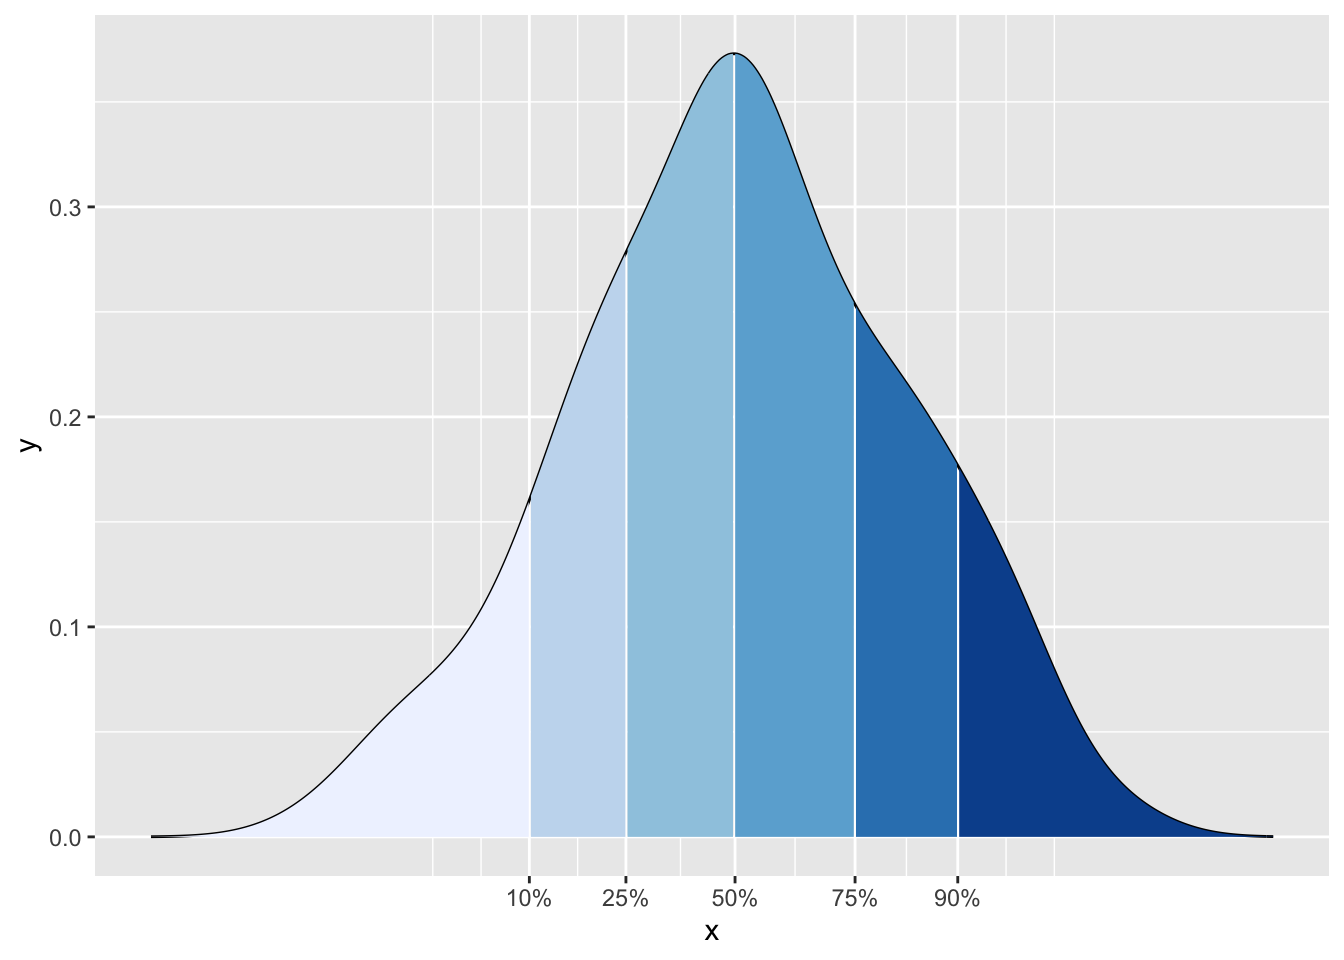
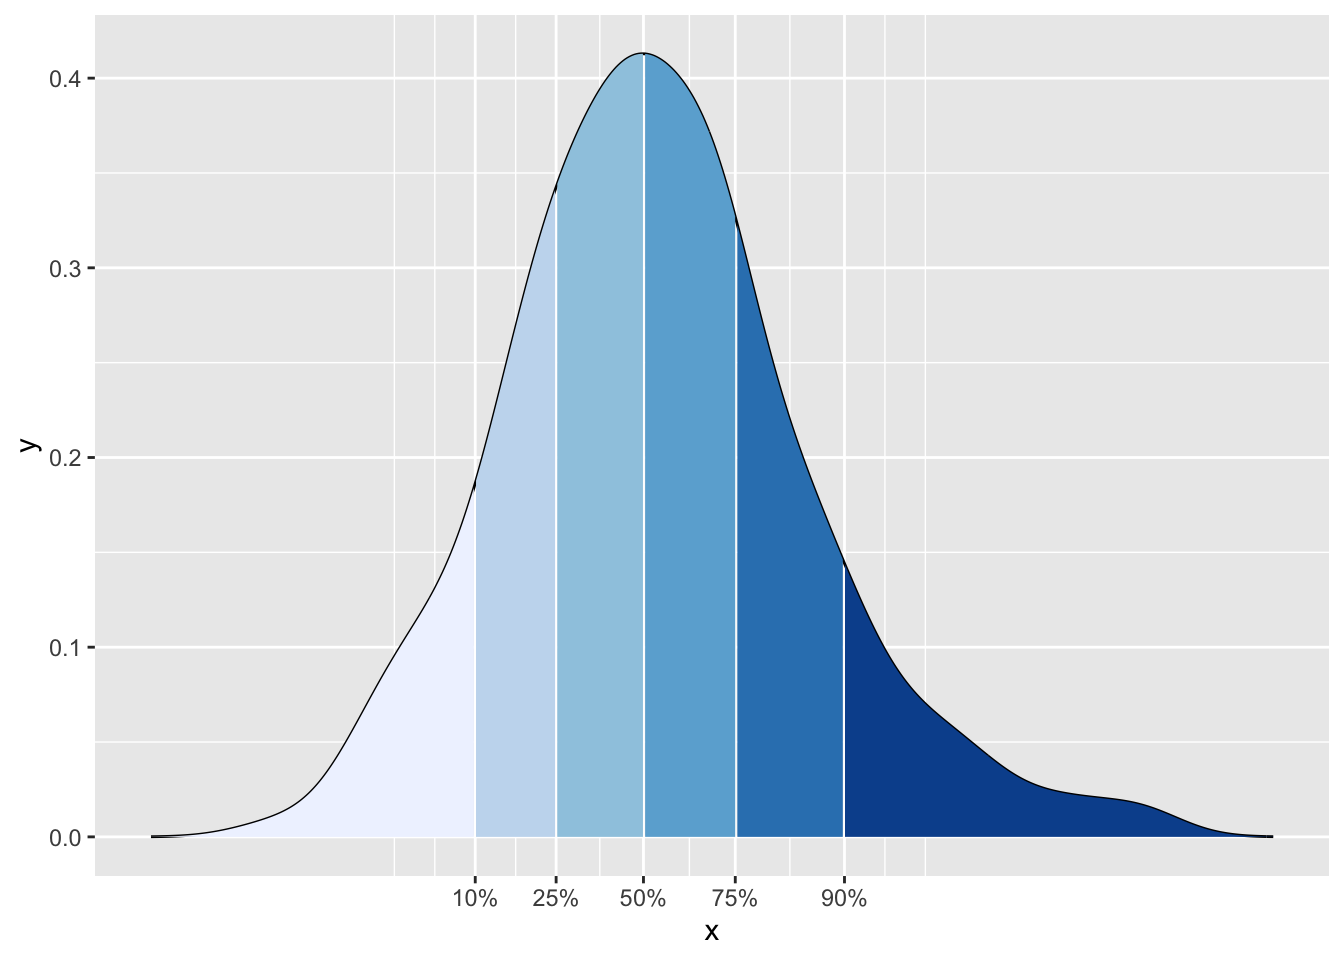
2023-03-06-violin

diff --git a/G8_geom_boxplot_geom_violin.html b/G8_geom_boxplot_geom_violin.html
@@ -629,12 +629,12 @@ de puntos de datos</p>
 <span id="cb6-4"><a href="#cb6-4" aria-hidden="true" tabindex="-1"></a><span class="fu">library</span>(gt)</span>
 <span id="cb6-5"><a href="#cb6-5" aria-hidden="true" tabindex="-1"></a>dipodium<span class="ot">=</span><span class="fu">clean_names</span>(dipodium)</span>
 <span id="cb6-6"><a href="#cb6-6" aria-hidden="true" tabindex="-1"></a><span class="fu">gt</span>(<span class="fu">head</span>(dipodium))</span></code></pre></div>
-<div id="cpytqasldf" style="padding-left:0px;padding-right:0px;padding-top:10px;padding-bottom:10px;overflow-x:auto;overflow-y:auto;width:auto;height:auto;">
+<div id="leahzobzrp" style="padding-left:0px;padding-right:0px;padding-top:10px;padding-bottom:10px;overflow-x:auto;overflow-y:auto;width:auto;height:auto;">
 <style>html {
   font-family: -apple-system, BlinkMacSystemFont, 'Segoe UI', Roboto, Oxygen, Ubuntu, Cantarell, 'Helvetica Neue', 'Fira Sans', 'Droid Sans', Arial, sans-serif;
 }
 
-#cpytqasldf .gt_table {
+#leahzobzrp .gt_table {
   display: table;
   border-collapse: collapse;
   margin-left: auto;
@@ -659,7 +659,7 @@ de puntos de datos</p>
   border-left-color: #D3D3D3;
 }
 
-#cpytqasldf .gt_heading {
+#leahzobzrp .gt_heading {
   background-color: #FFFFFF;
   text-align: center;
   border-bottom-color: #FFFFFF;
@@ -671,12 +671,12 @@ de puntos de datos</p>
   border-right-color: #D3D3D3;
 }
 
-#cpytqasldf .gt_caption {
+#leahzobzrp .gt_caption {
   padding-top: 4px;
   padding-bottom: 4px;
 }
 
-#cpytqasldf .gt_title {
+#leahzobzrp .gt_title {
   color: #333333;
   font-size: 125%;
   font-weight: initial;
@@ -688,7 +688,7 @@ de puntos de datos</p>
   border-bottom-width: 0;
 }
 
-#cpytqasldf .gt_subtitle {
+#leahzobzrp .gt_subtitle {
   color: #333333;
   font-size: 85%;
   font-weight: initial;
@@ -700,13 +700,13 @@ de puntos de datos</p>
   border-top-width: 0;
 }
 
-#cpytqasldf .gt_bottom_border {
+#leahzobzrp .gt_bottom_border {
   border-bottom-style: solid;
   border-bottom-width: 2px;
   border-bottom-color: #D3D3D3;
 }
 
-#cpytqasldf .gt_col_headings {
+#leahzobzrp .gt_col_headings {
   border-top-style: solid;
   border-top-width: 2px;
   border-top-color: #D3D3D3;
@@ -721,7 +721,7 @@ de puntos de datos</p>
   border-right-color: #D3D3D3;
 }
 
-#cpytqasldf .gt_col_heading {
+#leahzobzrp .gt_col_heading {
   color: #333333;
   background-color: #FFFFFF;
   font-size: 100%;
@@ -741,7 +741,7 @@ de puntos de datos</p>
   overflow-x: hidden;
 }
 
-#cpytqasldf .gt_column_spanner_outer {
+#leahzobzrp .gt_column_spanner_outer {
   color: #333333;
   background-color: #FFFFFF;
   font-size: 100%;
@@ -753,15 +753,15 @@ de puntos de datos</p>
   padding-right: 4px;
 }
 
-#cpytqasldf .gt_column_spanner_outer:first-child {
+#leahzobzrp .gt_column_spanner_outer:first-child {
   padding-left: 0;
 }
 
-#cpytqasldf .gt_column_spanner_outer:last-child {
+#leahzobzrp .gt_column_spanner_outer:last-child {
   padding-right: 0;
 }
 
-#cpytqasldf .gt_column_spanner {
+#leahzobzrp .gt_column_spanner {
   border-bottom-style: solid;
   border-bottom-width: 2px;
   border-bottom-color: #D3D3D3;
@@ -773,7 +773,7 @@ de puntos de datos</p>
   width: 100%;
 }
 
-#cpytqasldf .gt_group_heading {
+#leahzobzrp .gt_group_heading {
   padding-top: 8px;
   padding-bottom: 8px;
   padding-left: 5px;
@@ -799,7 +799,7 @@ de puntos de datos</p>
   text-align: left;
 }
 
-#cpytqasldf .gt_empty_group_heading {
+#leahzobzrp .gt_empty_group_heading {
   padding: 0.5px;
   color: #333333;
   background-color: #FFFFFF;
@@ -814,15 +814,15 @@ de puntos de datos</p>
   vertical-align: middle;
 }
 
-#cpytqasldf .gt_from_md > :first-child {
+#leahzobzrp .gt_from_md > :first-child {
   margin-top: 0;
 }
 
-#cpytqasldf .gt_from_md > :last-child {
+#leahzobzrp .gt_from_md > :last-child {
   margin-bottom: 0;
 }
 
-#cpytqasldf .gt_row {
+#leahzobzrp .gt_row {
   padding-top: 8px;
   padding-bottom: 8px;
   padding-left: 5px;
@@ -841,7 +841,7 @@ de puntos de datos</p>
   overflow-x: hidden;
 }
 
-#cpytqasldf .gt_stub {
+#leahzobzrp .gt_stub {
   color: #333333;
   background-color: #FFFFFF;
   font-size: 100%;
@@ -854,7 +854,7 @@ de puntos de datos</p>
   padding-right: 5px;
 }
 
-#cpytqasldf .gt_stub_row_group {
+#leahzobzrp .gt_stub_row_group {
   color: #333333;
   background-color: #FFFFFF;
   font-size: 100%;
@@ -868,11 +868,11 @@ de puntos de datos</p>
   vertical-align: top;
 }
 
-#cpytqasldf .gt_row_group_first td {
+#leahzobzrp .gt_row_group_first td {
   border-top-width: 2px;
 }
 
-#cpytqasldf .gt_summary_row {
+#leahzobzrp .gt_summary_row {
   color: #333333;
   background-color: #FFFFFF;
   text-transform: inherit;
@@ -882,16 +882,16 @@ de puntos de datos</p>
   padding-right: 5px;
 }
 
-#cpytqasldf .gt_first_summary_row {
+#leahzobzrp .gt_first_summary_row {
   border-top-style: solid;
   border-top-color: #D3D3D3;
 }
 
-#cpytqasldf .gt_first_summary_row.thick {
+#leahzobzrp .gt_first_summary_row.thick {
   border-top-width: 2px;
 }
 
-#cpytqasldf .gt_last_summary_row {
+#leahzobzrp .gt_last_summary_row {
   padding-top: 8px;
   padding-bottom: 8px;
   padding-left: 5px;
@@ -901,7 +901,7 @@ de puntos de datos</p>
   border-bottom-color: #D3D3D3;
 }
 
-#cpytqasldf .gt_grand_summary_row {
+#leahzobzrp .gt_grand_summary_row {
   color: #333333;
   background-color: #FFFFFF;
   text-transform: inherit;
@@ -911,7 +911,7 @@ de puntos de datos</p>
   padding-right: 5px;
 }
 
-#cpytqasldf .gt_first_grand_summary_row {
+#leahzobzrp .gt_first_grand_summary_row {
   padding-top: 8px;
   padding-bottom: 8px;
   padding-left: 5px;
@@ -921,11 +921,11 @@ de puntos de datos</p>
   border-top-color: #D3D3D3;
 }
 
-#cpytqasldf .gt_striped {
+#leahzobzrp .gt_striped {
   background-color: rgba(128, 128, 128, 0.05);
 }
 
-#cpytqasldf .gt_table_body {
+#leahzobzrp .gt_table_body {
   border-top-style: solid;
   border-top-width: 2px;
   border-top-color: #D3D3D3;
@@ -934,7 +934,7 @@ de puntos de datos</p>
   border-bottom-color: #D3D3D3;
 }
 
-#cpytqasldf .gt_footnotes {
+#leahzobzrp .gt_footnotes {
   color: #333333;
   background-color: #FFFFFF;
   border-bottom-style: none;
@@ -948,7 +948,7 @@ de puntos de datos</p>
   border-right-color: #D3D3D3;
 }
 
-#cpytqasldf .gt_footnote {
+#leahzobzrp .gt_footnote {
   margin: 0px;
   font-size: 90%;
   padding-left: 4px;
@@ -957,7 +957,7 @@ de puntos de datos</p>
   padding-right: 5px;
 }
 
-#cpytqasldf .gt_sourcenotes {
+#leahzobzrp .gt_sourcenotes {
   color: #333333;
   background-color: #FFFFFF;
   border-bottom-style: none;
@@ -971,7 +971,7 @@ de puntos de datos</p>
   border-right-color: #D3D3D3;
 }
 
-#cpytqasldf .gt_sourcenote {
+#leahzobzrp .gt_sourcenote {
   font-size: 90%;
   padding-top: 4px;
   padding-bottom: 4px;
@@ -979,64 +979,64 @@ de puntos de datos</p>
   padding-right: 5px;
 }
 
-#cpytqasldf .gt_left {
+#leahzobzrp .gt_left {
   text-align: left;
 }
 
-#cpytqasldf .gt_center {
+#leahzobzrp .gt_center {
   text-align: center;
 }
 
-#cpytqasldf .gt_right {
+#leahzobzrp .gt_right {
   text-align: right;
   font-variant-numeric: tabular-nums;
 }
 
-#cpytqasldf .gt_font_normal {
+#leahzobzrp .gt_font_normal {
   font-weight: normal;
 }
 
-#cpytqasldf .gt_font_bold {
+#leahzobzrp .gt_font_bold {
   font-weight: bold;
 }
 
-#cpytqasldf .gt_font_italic {
+#leahzobzrp .gt_font_italic {
   font-style: italic;
 }
 
-#cpytqasldf .gt_super {
+#leahzobzrp .gt_super {
   font-size: 65%;
 }
 
-#cpytqasldf .gt_footnote_marks {
+#leahzobzrp .gt_footnote_marks {
   font-style: italic;
   font-weight: normal;
   font-size: 75%;
   vertical-align: 0.4em;
 }
 
-#cpytqasldf .gt_asterisk {
+#leahzobzrp .gt_asterisk {
   font-size: 100%;
   vertical-align: 0;
 }
 
-#cpytqasldf .gt_indent_1 {
+#leahzobzrp .gt_indent_1 {
   text-indent: 5px;
 }
 
-#cpytqasldf .gt_indent_2 {
+#leahzobzrp .gt_indent_2 {
   text-indent: 10px;
 }
 
-#cpytqasldf .gt_indent_3 {
+#leahzobzrp .gt_indent_3 {
   text-indent: 15px;
 }
 
-#cpytqasldf .gt_indent_4 {
+#leahzobzrp .gt_indent_4 {
   text-indent: 20px;
 }
 
-#cpytqasldf .gt_indent_5 {
+#leahzobzrp .gt_indent_5 {
   text-indent: 25px;
 }
 </style>
@@ -1346,12 +1346,12 @@ a los violines y se le cambia la intensidad al color con
 <span id="cb17-3"><a href="#cb17-3" aria-hidden="true" tabindex="-1"></a>dfnorm<span class="ot">=</span><span class="fu">data.frame</span>(normal_data)</span>
 <span id="cb17-4"><a href="#cb17-4" aria-hidden="true" tabindex="-1"></a><span class="fu">head</span>(dfnorm)</span></code></pre></div>
 <pre><code>##   normal_data
-## 1   -3.101521
-## 2    5.151908
-## 3   -3.311005
-## 4    1.503180
-## 5    4.640319
-## 6   -2.327034</code></pre>
+## 1  -2.8586006
+## 2   7.6773546
+## 3  -2.8065801
+## 4  -4.3307417
+## 5  -0.6105244
+## 6  -2.8603909</code></pre>
 <div class="sourceCode" id="cb19"><pre class="sourceCode r"><code class="sourceCode r"><span id="cb19-1"><a href="#cb19-1" aria-hidden="true" tabindex="-1"></a><span class="fu">library</span>(ggplot2)</span>
 <span id="cb19-2"><a href="#cb19-2" aria-hidden="true" tabindex="-1"></a><span class="fu">ggplot</span>(dfnorm,<span class="fu">aes</span>(normal_data, <span class="at">x=</span><span class="dv">1</span>))<span class="sc">+</span></span>
 <span id="cb19-3"><a href="#cb19-3" aria-hidden="true" tabindex="-1"></a>  <span class="fu">geom_violin</span>()<span class="sc">+</span></span>
@@ -1424,7 +1424,7 @@ solapan el violin se revelan sobre mejor.</p>
 el mismo gráfico de violín con líneas horizontales.</p>
 <div class="sourceCode" id="cb22"><pre class="sourceCode r"><code class="sourceCode r"><span id="cb22-1"><a href="#cb22-1" aria-hidden="true" tabindex="-1"></a>violinplot3 <span class="ot">&lt;-</span> <span class="fu">ggplot</span>(CalVal, <span class="fu">aes</span>(<span class="at">y=</span>OH, <span class="at">x=</span><span class="fu">factor</span>(Year)))</span>
 <span id="cb22-2"><a href="#cb22-2" aria-hidden="true" tabindex="-1"></a>violinplot3 <span class="sc">+</span></span>
-<span id="cb22-3"><a href="#cb22-3" aria-hidden="true" tabindex="-1"></a>  <span class="fu">geom_violin</span>(<span class="at">draw_quantiles =</span> <span class="fu">c</span>(<span class="fl">0.05</span>, <span class="fl">0.25</span>,<span class="fl">0.5</span>, <span class="fl">0.75</span>,<span class="fl">0.95</span>))<span class="sc">+</span></span>
+<span id="cb22-3"><a href="#cb22-3" aria-hidden="true" tabindex="-1"></a>  <span class="fu">geom_violin</span>(<span class="at">draw_quantiles =</span> <span class="fu">c</span>(<span class="fl">0.025</span>, <span class="fl">0.25</span>,<span class="fl">0.5</span>, <span class="fl">0.75</span>,<span class="fl">0.975</span>))<span class="sc">+</span></span>
 <span id="cb22-4"><a href="#cb22-4" aria-hidden="true" tabindex="-1"></a>  <span class="fu">annotate</span>(<span class="st">&quot;text&quot;</span>, <span class="at">x=</span><span class="dv">2</span>,<span class="at">y=</span> <span class="dv">20</span>, <span class="at">size=</span><span class="dv">8</span>,</span>
 <span id="cb22-5"><a href="#cb22-5" aria-hidden="true" tabindex="-1"></a>           <span class="at">label=</span><span class="st">&quot;&quot;</span>)<span class="sc">+</span></span>
 <span id="cb22-6"><a href="#cb22-6" aria-hidden="true" tabindex="-1"></a>  <span class="fu">labs</span>(<span class="at">x=</span><span class="st">&quot;Año&quot;</span>, <span class="at">y=</span><span class="st">&quot;OH&quot;</span>)<span class="sc">+</span></span>
@@ -1556,7 +1556,7 @@ utilizando la opción <strong>coord_flip()</strong>.</p>
 ## 4 16.60567 1.481782e-05
 ## 5 16.74783 1.704836e-05
 ## 6 16.88998 1.953867e-05</code></pre>
-<div class="sourceCode" id="cb33"><pre class="sourceCode r"><code class="sourceCode r"><span id="cb33-1"><a href="#cb33-1" aria-hidden="true" tabindex="-1"></a>probs <span class="ot">&lt;-</span> <span class="fu">c</span>(<span class="fl">0.0001</span>, <span class="fl">0.1</span>, <span class="fl">0.25</span>, <span class="fl">0.5</span>, <span class="fl">0.75</span>, <span class="fl">0.9</span>, <span class="fl">0.95</span>, .<span class="dv">99</span>)</span>
+<div class="sourceCode" id="cb33"><pre class="sourceCode r"><code class="sourceCode r"><span id="cb33-1"><a href="#cb33-1" aria-hidden="true" tabindex="-1"></a>probs <span class="ot">&lt;-</span> <span class="fu">c</span>(<span class="fl">0.01</span>, <span class="fl">0.1</span>, <span class="fl">0.25</span>, <span class="fl">0.5</span>, <span class="fl">0.75</span>, <span class="fl">0.9</span>, <span class="fl">0.95</span>, .<span class="dv">99</span>)</span>
 <span id="cb33-2"><a href="#cb33-2" aria-hidden="true" tabindex="-1"></a>quantiles <span class="ot">&lt;-</span> <span class="fu">quantile</span>(CalVal2<span class="sc">$</span>OH, <span class="at">prob=</span>probs)</span>
 <span id="cb33-3"><a href="#cb33-3" aria-hidden="true" tabindex="-1"></a>df2 <span class="ot">&lt;-</span> <span class="fu">data.frame</span>(<span class="at">x=</span>dens2<span class="sc">$</span>x, <span class="at">y=</span>dens2<span class="sc">$</span>y)</span>
 <span id="cb33-4"><a href="#cb33-4" aria-hidden="true" tabindex="-1"></a>df2<span class="sc">$</span>quant <span class="ot">&lt;-</span> <span class="fu">factor</span>(<span class="fu">findInterval</span>(df2<span class="sc">$</span>x,quantiles))</span>
